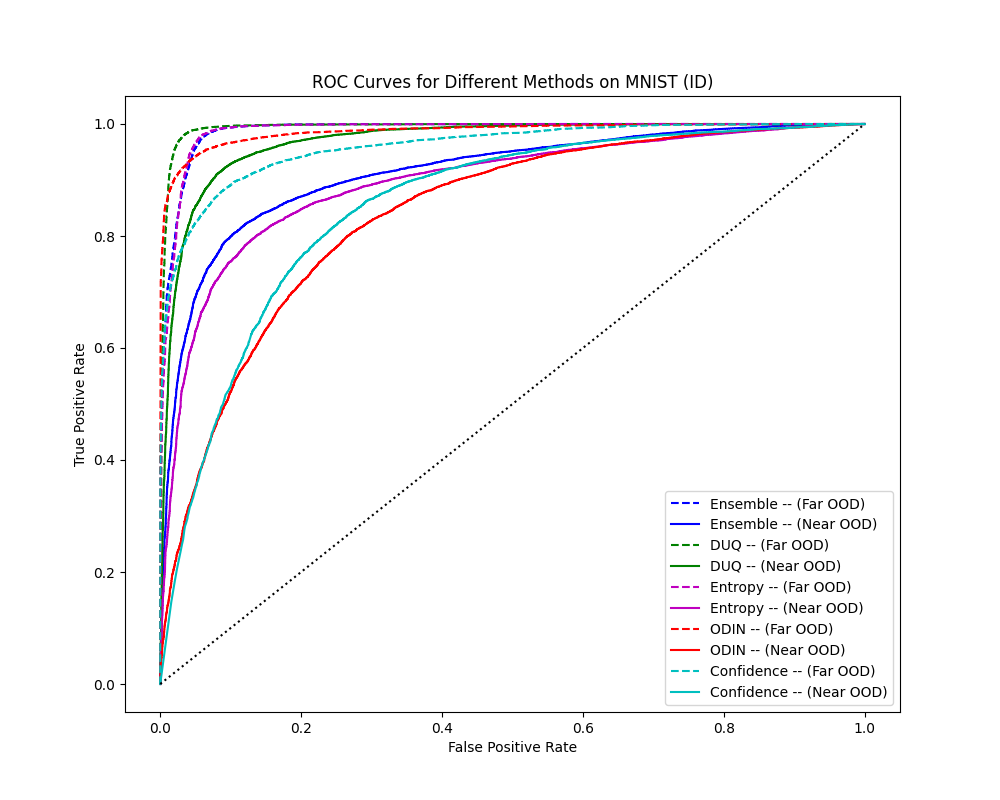
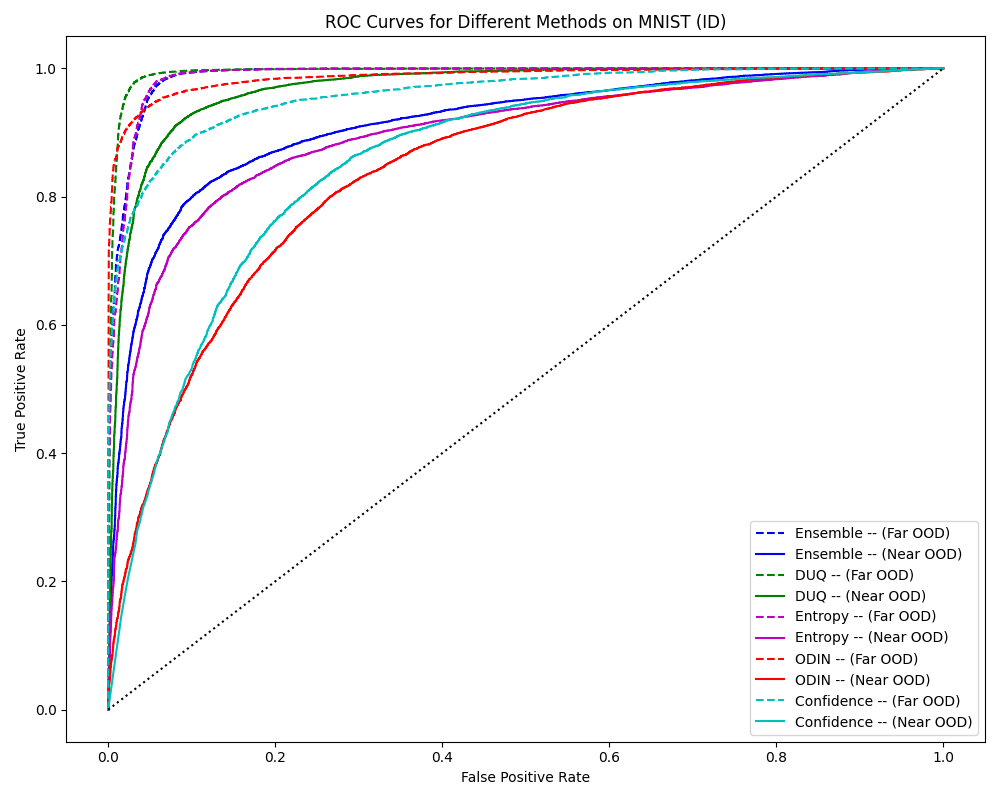
cleaned up names for plotting

diff --git a/final_plotting.py b/final_plotting.py
@@ -69,6 +69,10 @@ def make_dataframe():
                     fpr = data['fpr']
                     tpr = data['tpr']
                     roc_auc = np.trapz(tpr, fpr)
+                    if method == "Baseline":
+                        method = "Entropy"
+                    if method == "Conf":
+                        method = "Confidence"
                     # print(f"Method: {method}, ID Dataset: {dataset}, OOD Dataset: {ood_dataset}, AUROC: {roc_auc}, Distance: {distance}")
                     rows.append({
                         "Method": method,
@@ -100,6 +104,7 @@ def make_barplot(target_dataset=None):
     ax.set_title(f"AUROC for Different Methods on {target_dataset} Dataset")
     diff = df["AUROC"].max() - df["AUROC"].min()
     ax.set(ylim=(min(df["AUROC"]-(0.1*diff)), 1))
+    plt.tight_layout()
     plt.show()
 
 def plot_all_rocs():
@@ -130,6 +135,7 @@ def plot_all_rocs():
         plt.xlabel('False Positive Rate')
         plt.ylabel('True Positive Rate')
         plt.title(title)
+        plt.tight_layout()
         plt.legend()
         plt.savefig("Saved Plots/Overall/"+title)
         plt.show()
@@ -138,3 +144,4 @@ def plot_all_rocs():
 
 plot_all_rocs()
 make_barplot("MNIST")
+make_barplot("CIFAR10")
